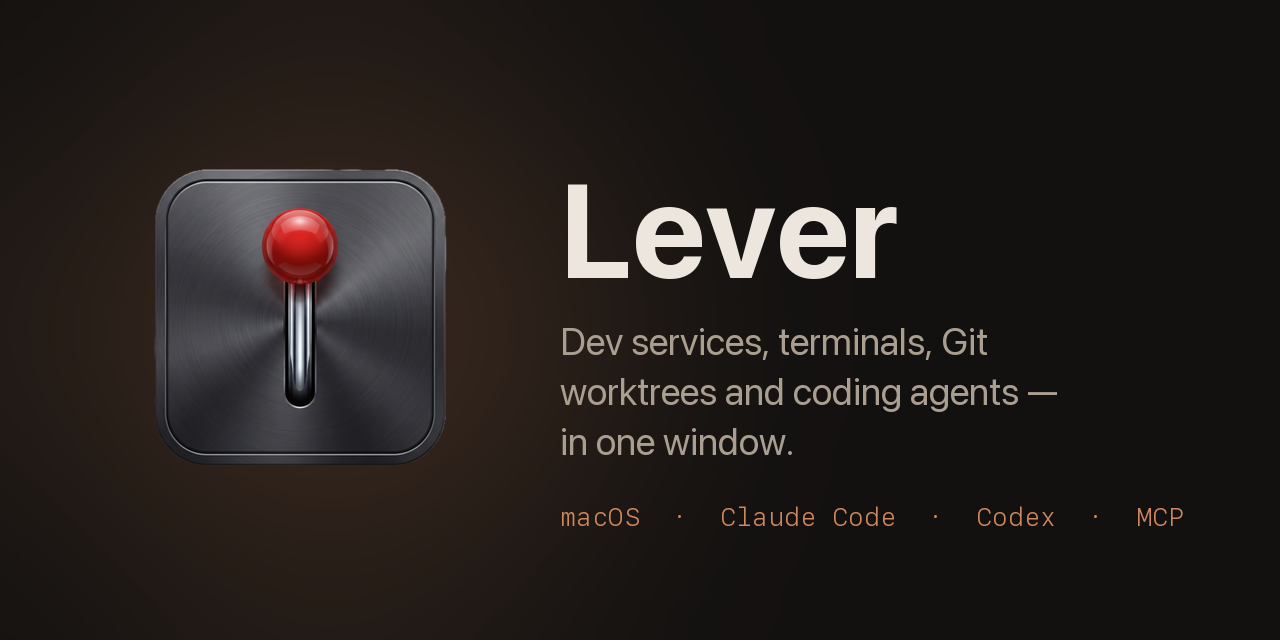
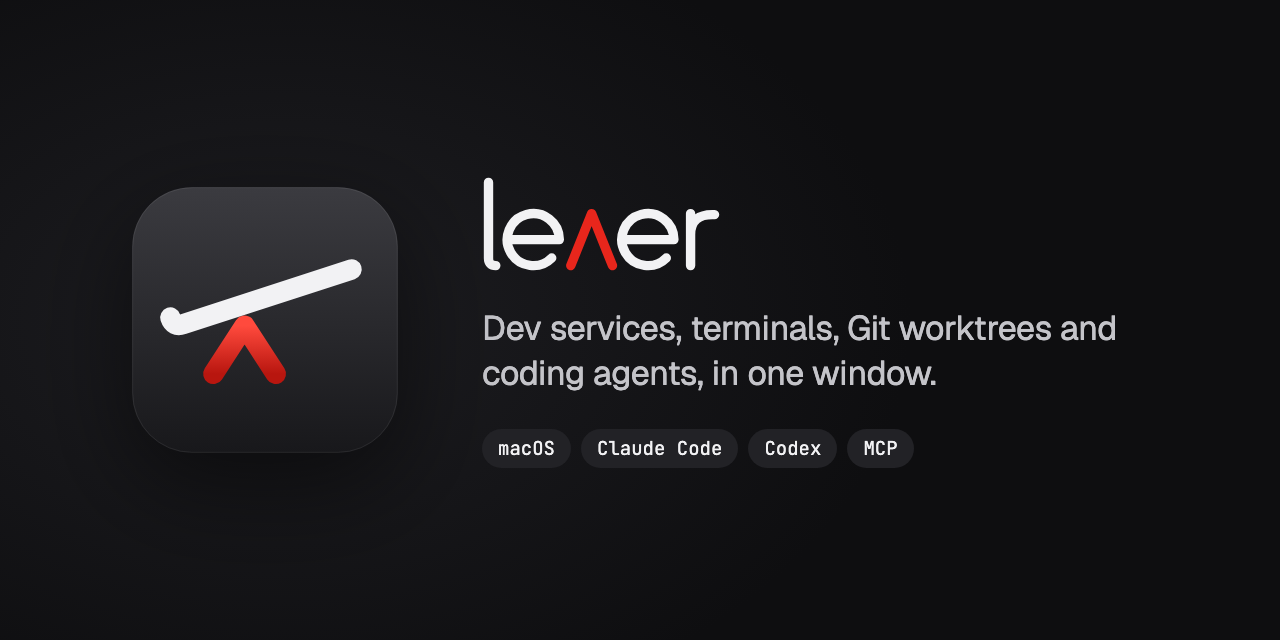
docs: README screenshots, and the new brand in the social preview
Five screenshots of the real UI through the features, the meter and
theme lines brought up to date, and the social preview redrawn with
the new icon and wordmark.

diff --git a/README.md b/README.md
@@ -24,6 +24,10 @@
 
 Lever replaces the mess of terminal tabs, hand-started services and scattered dev scripts with one window. Define your services once, group them, and start them with a click. Give each Git worktree its own copy of everything. Work with Claude Code or Codex in a terminal or in a native chat — and let them see and drive the same services you do.
 
+<p align="center">
+  <img src="docs/screenshots/workspace.png" alt="Lever with a project's services in the sidebar and a Claude chat that found and fixed a dev server crash" width="900" />
+</p>
+
 ## Features
 
 **Service Management**
@@ -33,6 +37,10 @@ Lever replaces the mess of terminal tabs, hand-started services and scattered de
 - Services outlive their windows: close a window and they keep running, reopen it and
   their output is still there (the newest 1 MB of each run)
 - Listening ports collected in the status bar and clickable — no hunting for which port a dev server landed on
+
+<p align="center">
+  <img src="docs/screenshots/services.png" alt="A running service's live log open under a chat" width="900" />
+</p>
 
 **Workspaces: terminals and chats**
 - Each tab is a terminal or an agent chat; Settings → Workspaces picks which one `Cmd+T` opens, and `Cmd+Shift+T` opens the other
@@ -56,18 +64,20 @@ Lever replaces the mess of terminal tabs, hand-started services and scattered de
   agent is working, names the conversation in the focused pane with the lines it has
   changed, and pulses when one finishes and nobody has been back — on the tab too, and
   the Dock bounces if Lever is in the background
-- Live meter in the status bar for the Claude Code session in the focused terminal:
-  model, context used, and plan usage left, side by side
+- Live meter in the status bar for the agent in the focused terminal or chat: model,
+  context used, and how much of your plan you've used, side by side
 - Breakdown of what fills the window — cached, newly written, fresh input, reply — and
   running session totals: turns, input/output tokens, cache reads and writes, subagent output
 - Read from Claude Code's own session files; nothing is attached to the process
 - Optional statusLine bridge for the exact context window (200k vs 1M), which is
   otherwise not recorded anywhere on disk — off by default, and it chains to any
   statusLine command you already use
-- With the bridge on, the plan's 5-hour and 7-day usage as Claude Code reports it,
-  with the time to each reset, plus the conversation's title and model name, running
-  cost at API list price, lines changed, effort and fast-mode flags, and whether the
-  prompt cache is still warm
+- Your plan's 5-hour and 7-day usage, with the time to each reset, read from Claude
+  Code itself every few minutes (no model call, no tokens) — shown from the moment
+  Lever opens, before any chat starts
+- With the bridge on, also the conversation's title and model name, running cost at
+  API list price, lines changed, effort and fast-mode flags, and whether the prompt
+  cache is still warm
 
 **Agent Access (MCP)**
 - Optional MCP server so an agent can see and drive your services — off by default,
@@ -125,17 +135,29 @@ Lever replaces the mess of terminal tabs, hand-started services and scattered de
   view diffs, stage and unstage files or everything, discard, and pull. Committing,
   pushing and branching stay in your terminal
 
+<p align="center">
+  <img src="docs/screenshots/git.png" alt="The Git panel beside a chat, with the changed file's diff open" width="900" />
+</p>
+
 **Project Launcher**
 - Start page with project cards showing service counts and last-opened time
 - Create projects from any folder with automatic Git detection
 - Import/export project configs as JSON
 - Clone and rename projects via right-click context menu
 
+<p align="center">
+  <img src="docs/screenshots/start.png" alt="The start page with project cards and the animated Lever mark" width="900" />
+</p>
+
 **And**
-- Themes: Foundry (default), Black, Charcoal, Material, Dracula and the light Daylight
+- Themes: Lever (default, in the icon's black and red), Black, Charcoal, Material, Dracula and the light Daylight
 - Terminal type size and scrollback in Settings, applied to open terminals straight away
 - Updates itself from GitHub releases (Settings → Updates)
 - A debug console of everything Lever runs on your behalf (Settings → Advanced)
+
+<p align="center">
+  <img src="docs/screenshots/settings.png" alt="Lever's settings panel" width="900" />
+</p>
 
 ## Keyboard Shortcuts
 
